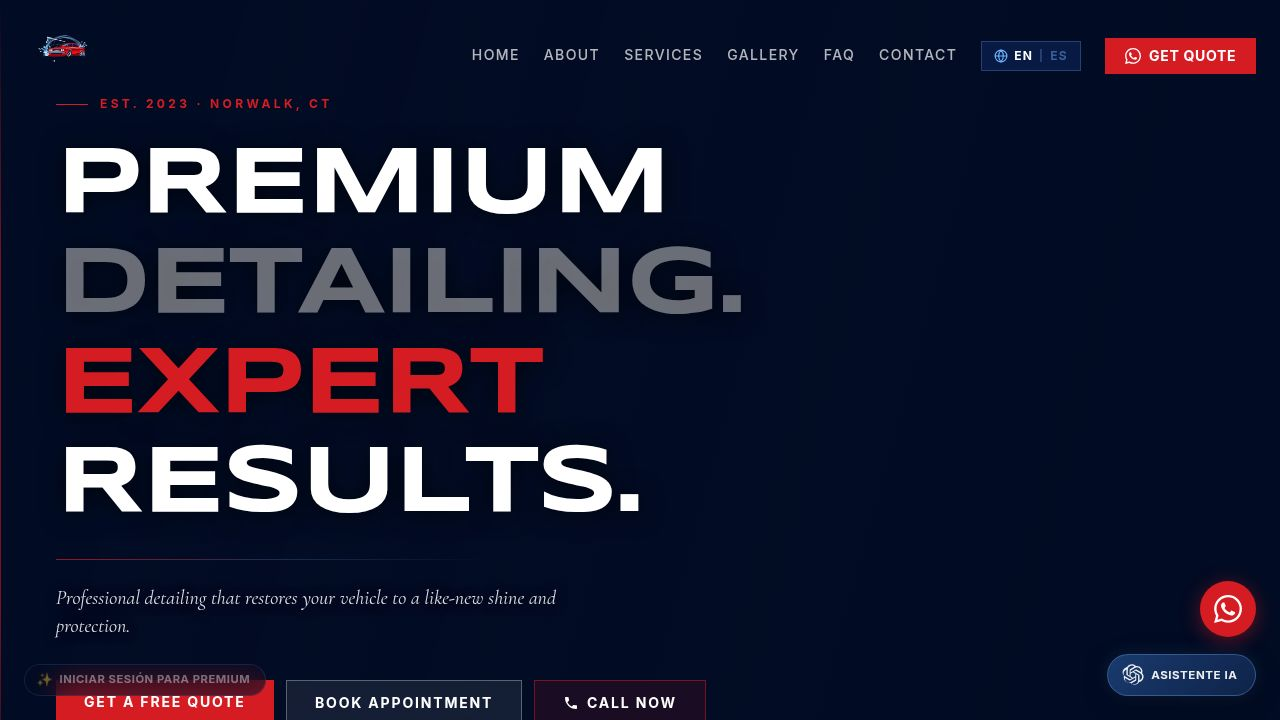
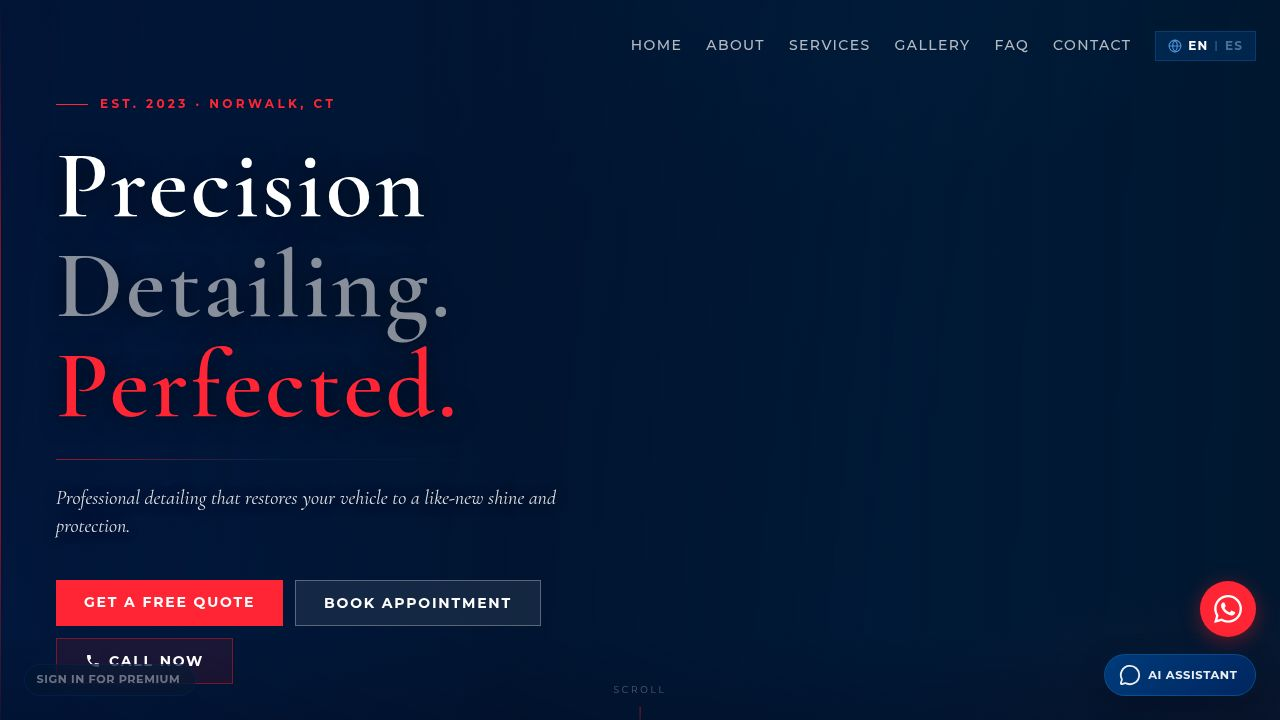
Update AI assistant to fix connection errors and add a WhatsApp message
Refactor OpenAI integration to use the official SDK, fix API key validation, and add a fixed closing message with a WhatsApp button.

Replit-Commit-Author: Agent
Replit-Commit-Session-Id: b4d050a3-d74a-44f9-9a09-a9407ccf95cf
Replit-Commit-Checkpoint-Type: full_checkpoint
Replit-Commit-Event-Id: 3537ad4d-1c5c-4477-9e67-539c83d2317b
Replit-Commit-Screenshot-Url: https://storage.googleapis.com/screenshot-production-us-central1/711e96c5-978a-43bc-8c44-73d095dd4af3/b4d050a3-d74a-44f9-9a09-a9407ccf95cf/m09ZdMb
Replit-Helium-Checkpoint-Created: true

diff --git a/artifacts/api-server/src/lib/openaiClient.ts b/artifacts/api-server/src/lib/openaiClient.ts
@@ -1,0 +1,9 @@
+import OpenAI from "openai";
+
+if (!process.env.OPENAI_API_KEY) {
+  throw new Error("OPENAI_API_KEY must be set to enable the AI assistant.");
+}
+
+export const openai = new OpenAI({
+  apiKey: process.env.OPENAI_API_KEY,
+});

diff --git a/artifacts/api-server/src/routes/openai.ts b/artifacts/api-server/src/routes/openai.ts
@@ -1,5 +1,5 @@
 import { Router } from "express";
-import { openai } from "@workspace/integrations-openai-ai-server";
+import { openai } from "../lib/openaiClient";
 
 const router = Router();
 
@@ -120,6 +120,11 @@ router.post("/openai/chat", async (req, res) => {
   const resolvedLang = (lang === "en" || lang === "es") ? lang : "en";
   const resolvedWaHref = waHref ?? "https://wa.me/14756898301";
 
+  const fixedClosingLine =
+    resolvedLang === "es"
+      ? "\n\nPara más información escríbenos vía WhatsApp {{WA_BUTTON}}"
+      : "\n\nFor more information, message us on WhatsApp {{WA_BUTTON}}";
+
   try {
     const stream = await openai.chat.completions.create({
       model: "gpt-4o-mini",
@@ -139,6 +144,7 @@ router.post("/openai/chat", async (req, res) => {
       }
     }
 
+    res.write(`data: ${JSON.stringify({ content: fixedClosingLine })}\n\n`);
     res.write(`data: ${JSON.stringify({ done: true })}\n\n`);
     res.end();
   } catch (err) {